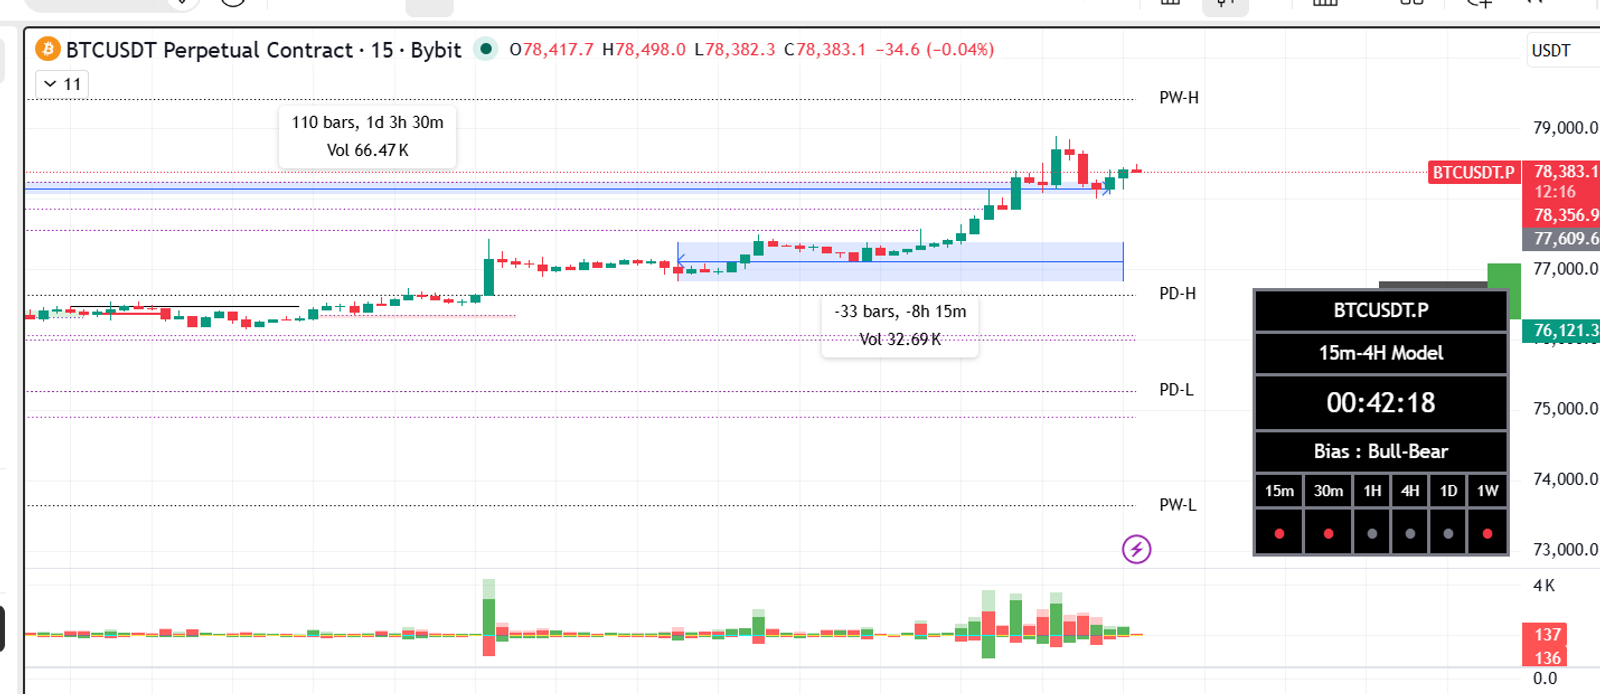
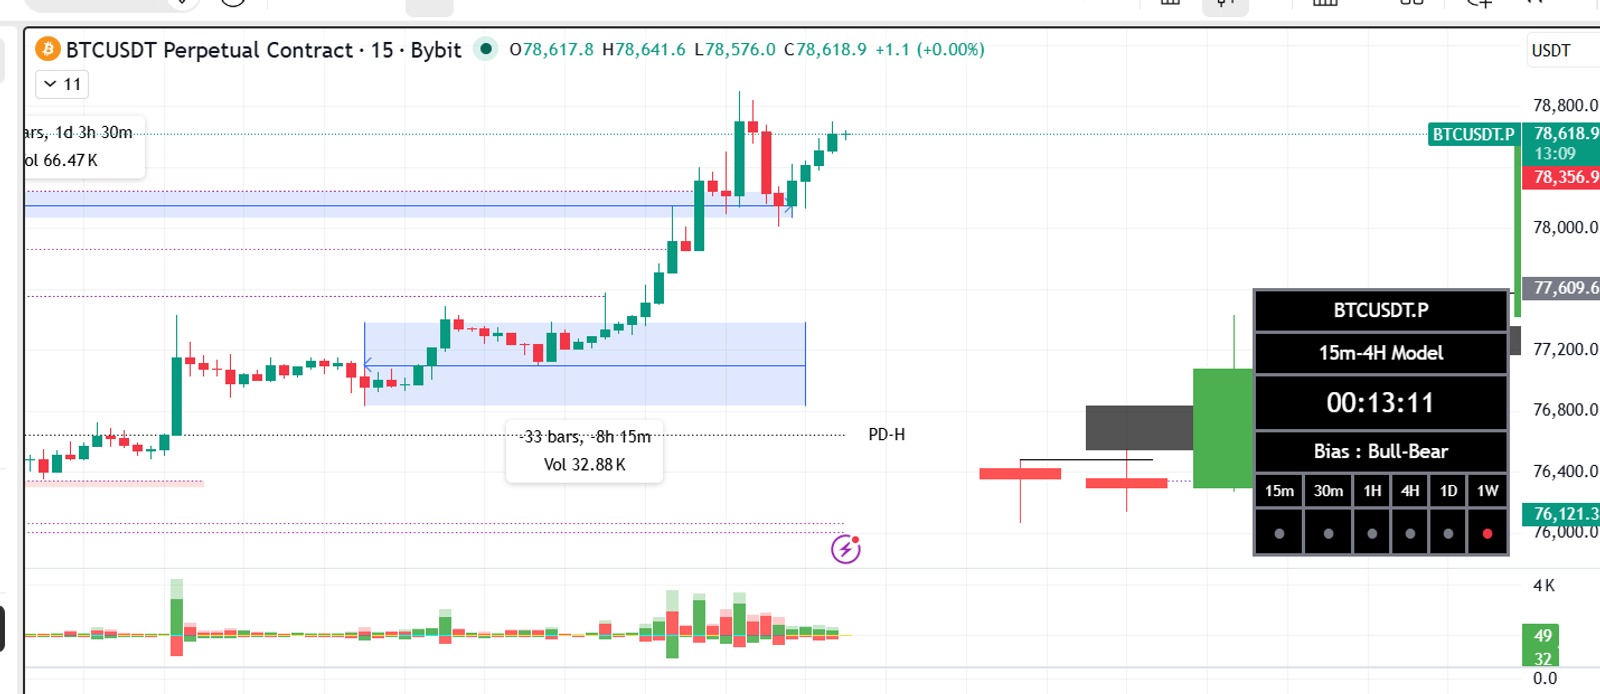
fix(wyckoff): SMC_X candles no longer overlap with bias dashboard
- Increased right offset from 35 to 50 bars (more space for dashboard)
- Reset price scale margins to defaults (10% top, 10% bottom)
- Updated all 3 SMC_X charts (15m, 5m, 3m)
- Updated report timestamp to current Israel time

diff --git a/wyckoff/latest.html b/wyckoff/latest.html
@@ -70,7 +70,7 @@
 <body>
 
   <div class="gen-banner">
-    <span><strong>📊 דוח נוצר:</strong> 2026-05-01 16:30 שעון ישראל</span>
+    <span><strong>📊 דוח נוצר:</strong> 2026-05-01 18:41 שעון ישראל</span>
     <span class="label">BYBIT:BTCUSDT.P · ניתוח Wyckoff מלא</span>
   </div>
 
